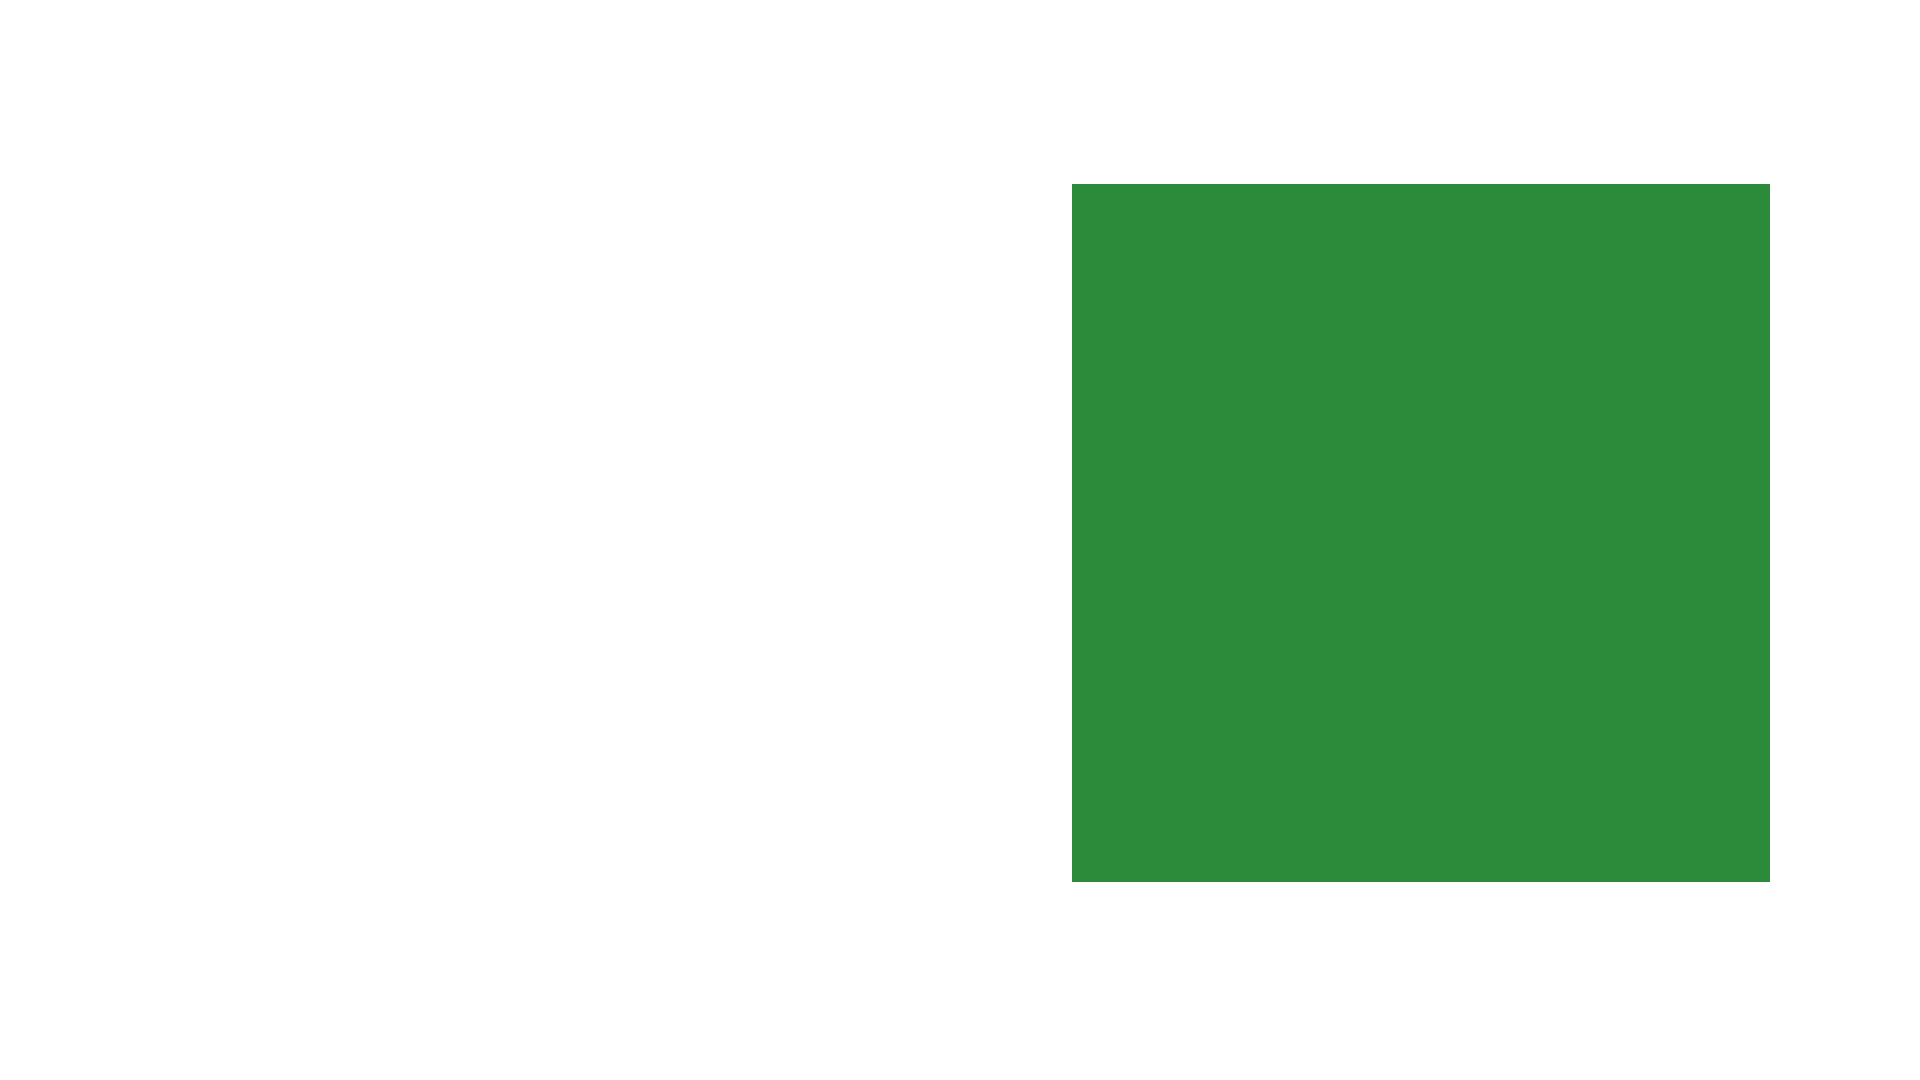
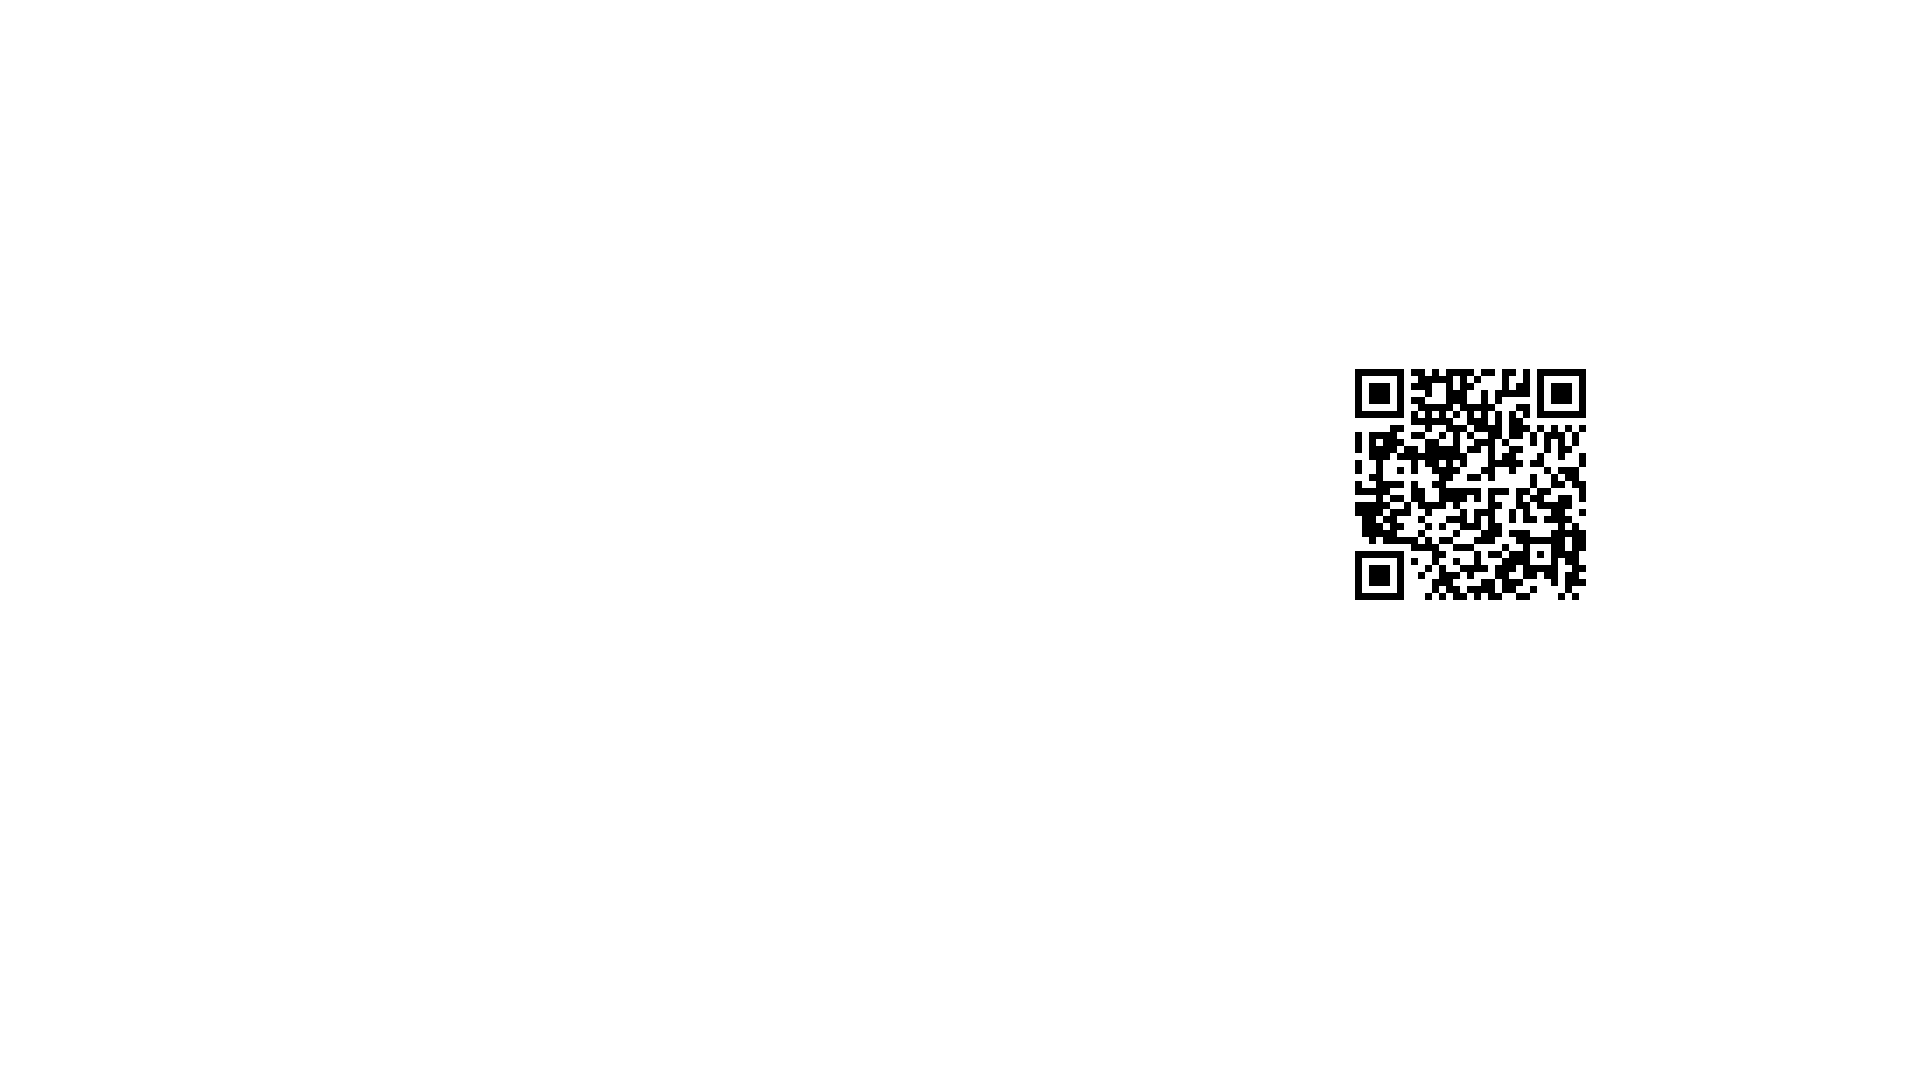
[update] 画像のQRコードを置換できるように

Changed region(s): [[0.5312, 0.1528, 0.9375, 0.825]]

diff --git a/src/main.rs b/src/main.rs
@@ -1,47 +1,71 @@
 use anyhow::{Ok, Result};
 use opencv::{
-    imgcodecs,
-    imgproc::{self, TemplateMatchModes},
-    prelude::MatTraitConstManual,
+    imgcodecs, imgproc, objdetect,
+    prelude::{QRCodeDetectorTraitConst, QRCodeEncoder},
+    types::{PtrOfQRCodeEncoder, VectorOfPoint},
 };
 fn main() -> Result<()> {
-    let mut target_img = imgcodecs::imread("./assets/target.png", imgcodecs::IMREAD_COLOR)?;
-    let search_img = imgcodecs::imread("./assets/replace.png", imgcodecs::IMREAD_COLOR)?;
-    let mut result = opencv::core::Mat::default();
-    imgproc::match_template(
-        &target_img,
-        &search_img,
-        &mut result,
-        TemplateMatchModes::TM_SQDIFF_NORMED as i32,
+    // 初期設定
+    let target_img = imgcodecs::imread("./assets/target.png", imgcodecs::IMREAD_COLOR)?;
+    let replace_qr_data = "https://github.com/shoichi1023";
+    let padding = 15;
+    let qr_code_version = 4;
+
+    // QRコードを検出
+    let mut result = VectorOfPoint::new();
+    let qr_detecter = objdetect::QRCodeDetector::default()?;
+    let is_detected = qr_detecter.detect(&target_img, &mut result)?;
+    if !is_detected {
+        eprintln!("Error : QRコードが検出できませんでした。");
+        std::process::exit(1);
+    }
+
+    // 検出位置の取得
+    let top_left_point = result.get(0)?;
+    let bottom_right_point = result.get(2)?;
+    let qr_size = opencv::core::Size::new(
+        bottom_right_point.x - top_left_point.x + padding * 2,
+        bottom_right_point.y - top_left_point.y + padding * 2,
+    );
+    let rect = opencv::core::Rect::new(
+        top_left_point.x - padding,
+        top_left_point.y - padding,
+        qr_size.width,
+        qr_size.height,
+    );
+
+    // QRコード生成
+    let mut new_qr = opencv::core::Mat::default();
+    let mut qr_code_params = objdetect::QRCodeEncoder_Params::default()?;
+    qr_code_params.version = qr_code_version;
+    let mut encoder: PtrOfQRCodeEncoder = <dyn objdetect::QRCodeEncoder>::create(qr_code_params)?;
+    encoder.encode(replace_qr_data, &mut new_qr)?;
+    imgproc::resize(
+        &new_qr.clone(),
+        &mut new_qr,
+        qr_size,
+        0.0,
+        0.0,
+        imgproc::INTER_AREA,
+    )?;
+    imgproc::cvt_color(&new_qr.clone(), &mut new_qr, imgproc::COLOR_GRAY2BGR, 0)?;
+
+    // QRコードの置換
+    let mut cover = opencv::core::Mat::roi(&target_img, rect)?;
+    opencv::core::add(
+        &new_qr.clone(),
+        &new_qr,
+        &mut cover,
         &opencv::core::no_array(),
+        -1,
     )?;
-    let search_size = search_img.size()?;
-    let mut max_val = 0.0;
-    let mut max_loc = opencv::core::Point::default();
-    opencv::core::min_max_loc(
-        &result,
-        None,
-        Some(&mut max_val),
-        None,
-        Some(&mut max_loc),
-        &opencv::core::no_array(),
-    )?;
-    println!("一致率 : {}", max_val);
-    println!("x : {}", max_loc.x);
-    println!("y : {}", max_loc.y);
-    let rect = opencv::core::Rect::new(max_loc.x, max_loc.y, search_size.width, search_size.height);
-    imgproc::rectangle(
-        &mut target_img,
-        rect,
-        opencv::core::Scalar::new(0.0, 0.0, 255.0, 1.0),
-        10,
-        imgproc::LINE_8,
-        0,
-    )?;
+
+    // 成果物の書き出し
     imgcodecs::imwrite(
         "./assets/result.png",
         &target_img,
         &opencv::core::Vector::default(),
     )?;
+
     Ok(())
 }
